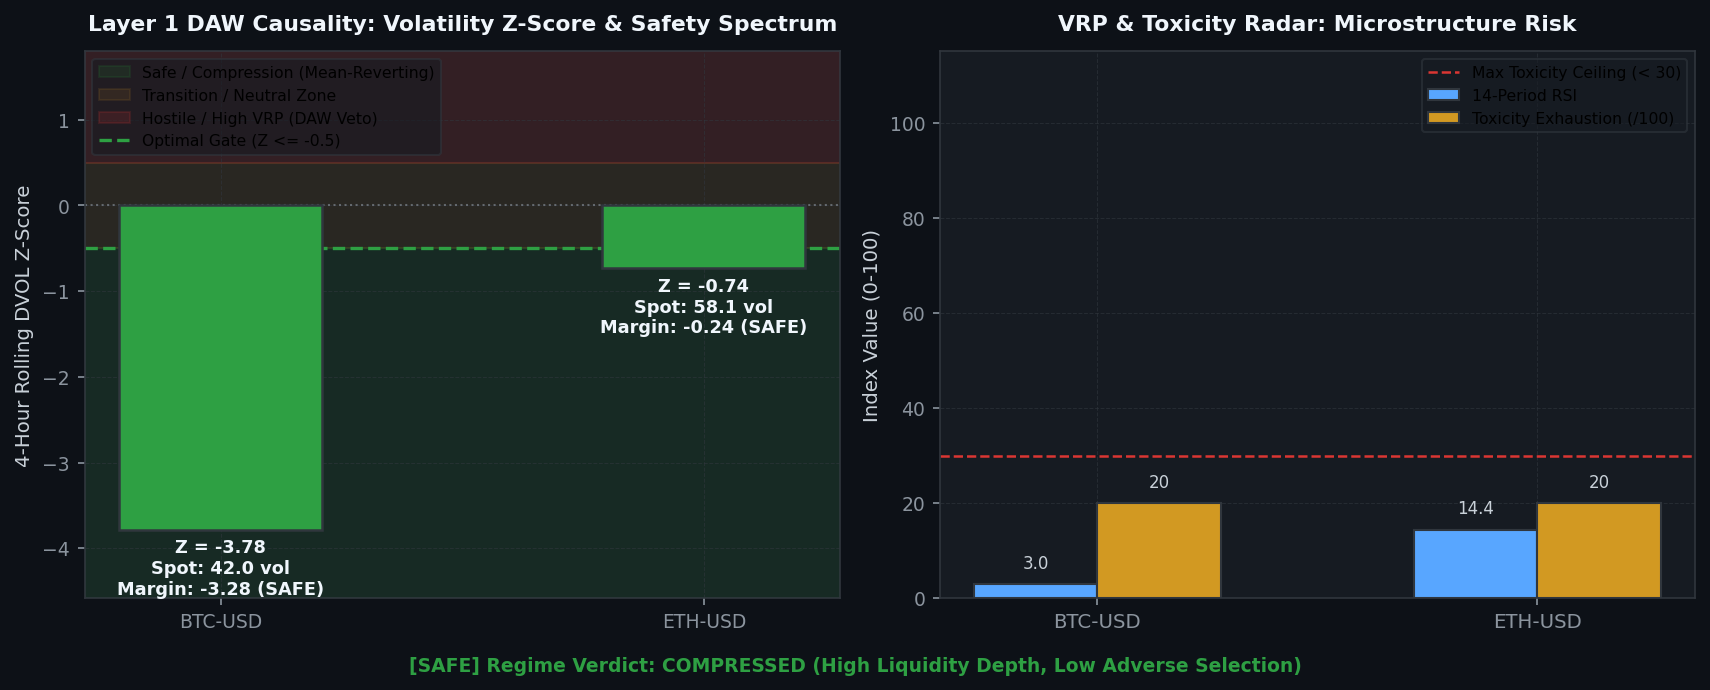
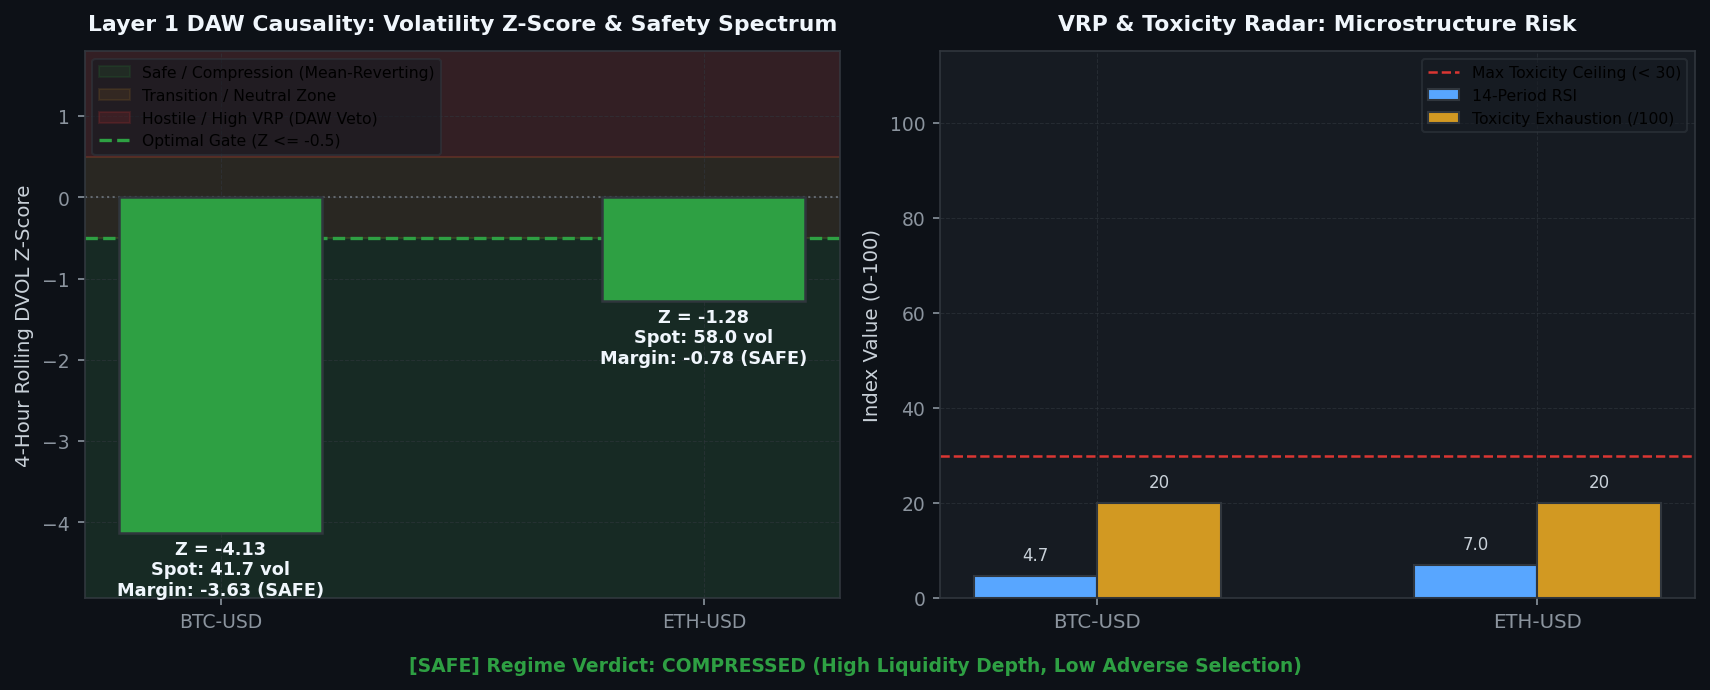
[coinbase] Hourly Status & Visual Intelligence Update: 2026-08-26 00:00:27

diff --git a/coinbase/data/hourly_status_report.md b/coinbase/data/hourly_status_report.md
@@ -3,7 +3,7 @@ layout: default
 ---
 
 # 🛡 Unified Trading System Hourly Status & Visual Intelligence
-> **Report Generated**: `2026-08-25 11:42:24 PM PDT (2026-08-26 06:42:24 UTC)`  
+> **Report Generated**: `2026-08-26 12:00:10 AM PDT (2026-08-26 07:00:10 UTC)`  
 > **System Health**: **🟡 DEGRADED / RESTRICTED** | **Win Rate**: `0.0%` | **Completed Trades**: `0`
 
 
@@ -15,13 +15,13 @@ Real-time Deribit implied volatility (DVOL) proxy tracking against mathematicall
 
 | Symbol | Proxy Oracle | Live Z-Score | Optimal Limit (YSP) | Safety Margin | Live VRP | Optimal VRP (YSP) | DAW Safety Verdict |
 | :--- | :--- | :--- | :--- | :--- | :--- | :--- | :--- |
-| `AVAX-USD` | DVOL_BTC | **-3.78** | **-0.50** | **-3.28** | **-4.79** | 5.0 | 🟢 SAFE |
-| `ETH-USD` | DVOL_ETH | **-0.74** | **-0.50** | **-0.24** | **+12.65** | 5.0 | 🔴 DAW VETOED |
-| `ADA-USD` | DVOL_BTC | **-3.78** | **-0.50** | **-3.28** | **-4.80** | 5.0 | 🟢 SAFE |
-| `DOGE-USD` | DVOL_BTC | **-3.78** | **-0.50** | **-3.28** | **-4.80** | 5.0 | 🟢 SAFE |
-| `BTC-USD` | DVOL_BTC | **-3.78** | **-0.50** | **-3.28** | **-4.80** | 5.0 | 🟢 SAFE |
-| `LINK-USD` | DVOL_BTC | **-3.78** | **-0.50** | **-3.28** | **-4.80** | 5.0 | 🟢 SAFE |
-| `SOL-USD` | DVOL_BTC | **-3.78** | **-0.50** | **-3.28** | **-4.80** | 5.0 | 🟢 SAFE |
+| `AVAX-USD` | DVOL_BTC | **-4.17** | **-0.50** | **-3.67** | **-4.79** | 5.0 | 🟢 SAFE |
+| `ETH-USD` | DVOL_ETH | **-1.18** | **-0.50** | **-0.68** | **+12.55** | 5.0 | 🔴 DAW VETOED |
+| `ADA-USD` | DVOL_BTC | **-4.17** | **-0.50** | **-3.67** | **-4.80** | 5.0 | 🟢 SAFE |
+| `DOGE-USD` | DVOL_BTC | **-4.17** | **-0.50** | **-3.67** | **-4.80** | 5.0 | 🟢 SAFE |
+| `BTC-USD` | DVOL_BTC | **-4.17** | **-0.50** | **-3.67** | **-4.80** | 5.0 | 🟢 SAFE |
+| `LINK-USD` | DVOL_BTC | **-4.17** | **-0.50** | **-3.67** | **-4.80** | 5.0 | 🟢 SAFE |
+| `SOL-USD` | DVOL_BTC | **-4.17** | **-0.50** | **-3.67** | **-4.80** | 5.0 | 🟢 SAFE |
 
 
 
@@ -37,12 +37,12 @@ We hereby certify that the mission-critical algorithmic data assets uploaded by 
 
 | Status | Data Asset | Freshness / State | Details / Timestamp |
 | :---: | :--- | :--- | :--- |
-| ✅ | **Go-List JSON** | Fresh (14.67h old) | 08-25 09:02 |
-| ✅ | **TimesFM Forecasts** | Fresh (2.86h old) | 08-25 20:51 |
-| ❌ | **Holding Times config** | STALE! (110.7h old) | Limit 52.7h |
-| ✅ | **BTC DVOL Cache** | Fresh (0.00h old) | 08-25 23:42 |
-| ✅ | **ETH DVOL Cache** | Fresh (0.00h old) | 08-25 23:42 |
-| ❌ | **Live Trading Telemetry** | STALE! (2.2h old) | Limit 0.1h |
+| ✅ | **Go-List JSON** | Fresh (14.97h old) | 08-25 09:02 |
+| ✅ | **TimesFM Forecasts** | Fresh (3.15h old) | 08-25 20:51 |
+| ❌ | **Holding Times config** | STALE! (111.0h old) | Limit 53.0h |
+| ✅ | **BTC DVOL Cache** | Fresh (0.00h old) | 08-26 00:00 |
+| ✅ | **ETH DVOL Cache** | Fresh (0.01h old) | 08-25 23:59 |
+| ❌ | **Live Trading Telemetry** | STALE! (2.5h old) | Limit 0.1h |
 
 <br>
 
@@ -55,7 +55,7 @@ Layer-by-layer tick evaluation waterfall and asset-specific performance tracking
 
 | Funnel Filter Layer | Total Rejections | % of Rejections |
 | :--- | :--- | :--- |
-| Tier 1: Macro Volatility Tensor Gate (Omega_macro) | `7,014` | **100.0%** |
+| Tier 1: Macro Volatility Tensor Gate (Omega_macro) | `7,066` | **100.0%** |
 | Tier 2: Unified Transport & Directional Engine | `0` | **0.0%** |
 | Tier 3: Continuous Hawkes-SFGK Pricer (HAS-Pricer) | `0` | **0.0%** |
 | System: Asset Cooldown Active | `0` | **0.0%** |
@@ -80,18 +80,18 @@ Live balance sheet and open maker liquidity positions from Coinbase CDP.
 | Product | Side | Limit Price | Order ID |
 | :--- | :--- | :--- | :--- |
 | `ACH-USD` | SELL | 0.005507 | `a0d2e243-42b4-4df5-bd23-118f45998df8` |
-| `ADA-USD` | SELL | 0.22853 | `2beee26b-f88c-4929-8625-ec618ae9e32d` |
+| `ETH-USD` | SELL | 2503.11 | `b8603d38-2b4a-481a-803a-19ecf1beb593` |
+| `SOL-USD` | SELL | 100.69 | `8dcd9986-8156-403f-81ee-b1dc96d2b3c7` |
 | `LINK-USD` | SELL | 11.886 | `e550166a-4422-4a46-9c78-7db264061242` |
+| `ADA-USD` | SELL | 0.22031 | `d968b8ef-1180-4f05-bc11-01087aa5d99a` |
+| `ADA-USD` | SELL | 0.22853 | `2beee26b-f88c-4929-8625-ec618ae9e32d` |
 | `AVAX-USD` | SELL | 7.708 | `7c4cd0f2-8347-4458-a3a5-8619324273a2` |
 | `ADA-USD` | SELL | 0.22818 | `7af97780-5e33-47e5-9caf-12bec2c8a7d5` |
 | `ADA-USD` | SELL | 0.22503 | `eb72afdd-a3d7-40b8-9598-30b5ca2b74ef` |
 | `DOGE-USD` | SELL | 0.09237 | `3160f212-8ff6-4b19-a291-73c17cdf2a97` |
 | `AVAX-USD` | SELL | 7.625 | `c14c3c5a-f35f-4043-a616-ea4c20cfa9f2` |
-| `ETH-USD` | SELL | 2503.11 | `b8603d38-2b4a-481a-803a-19ecf1beb593` |
-| `SOL-USD` | SELL | 100.69 | `8dcd9986-8156-403f-81ee-b1dc96d2b3c7` |
 | `BTC-USD` | SELL | 79882.66 | `560ee9a9-d0c6-4242-b2d2-c0d7ddc7393f` |
 | `DOGE-USD` | SELL | 0.09132 | `2f2ed9b7-454b-4377-9672-5f4c78c84b1e` |
-| `ADA-USD` | SELL | 0.22031 | `d968b8ef-1180-4f05-bc11-01087aa5d99a` |
 | `AVAX-USD` | SELL | 7.558 | `fc9234ee-6ef0-4ba3-a44b-d86922f91144` |
 
 
@@ -100,14 +100,14 @@ Live balance sheet and open maker liquidity positions from Coinbase CDP.
 ## 4. 🤖 Foundation Model MLOps & Pipeline Orchestration
 Weekly Algorithmic Mega Cap selection, Zero-shot multi-step forward return forecasts, and VSTEF parameter grid search status.
 
-- **TimesFM Forecast DB**: 🟢 Updated 2.9h ago (2026-08-25 08:51 PM PDT)
+- **TimesFM Forecast DB**: 🟢 Updated 3.2h ago (2026-08-25 08:51 PM PDT)
 - **Last Weekly VSTEF Optimization**: `2026-08-05 09:22:38 AM PDT`
-- **Next Scheduled VSTEF Run**: `2026-08-30 07:00:00 PM PDT (Monday 02:00 UTC)` (Countdown: **115.3h (4d 19h 17m)**)
+- **Next Scheduled VSTEF Run**: `2026-08-30 07:00:00 PM PDT (Monday 02:00 UTC)` (Countdown: **115.0h (4d 18h 59m)**)
 - **Promoted Parameter Gates**: $Z_{DVOL} \le -0.5$ | Holding Horizon $= 12\text{h}$
 
 ### Algorithmic Mega Cap Selection
 - **Last Run (Confirmation)**: `2026-08-25 09:02:14 AM PDT`
-- **Next Scheduled Run**: `2026-08-30 06:00:00 PM PDT (Monday 01:00 UTC)` (Countdown: **114.3h (4d 18h 17m)**)
+- **Next Scheduled Run**: `2026-08-30 06:00:00 PM PDT (Monday 01:00 UTC)` (Countdown: **114.0h (4d 17h 59m)**)
 - **Selected Mega Cap Universe**: `BTC, BCH, AVAX, ETH, ALGO, ADA, LTC, DOGE, AAVE, LINK, DOT, HBAR`
 
 
@@ -121,8 +121,8 @@ Visualizing the impact of the VSTEF (Volatility-Synchronized Stop-Tightening Exe
 ## 5. 🖥 Multi-Node Infrastructure & Watchdog Matrix
 ```text
 ================================================================================
-   🛡  SFGK FUNNEL GUARDIAN WATCHDOG (HFT ONLY) |  06:42:25 AM
-   CPU:   2.9%  |  MEM:   8.3% (14.1GB / 15.4GB Free)
+   🛡  SFGK FUNNEL GUARDIAN WATCHDOG (HFT ONLY) |  07:00:08 AM
+   CPU:   2.8%  |  MEM:   8.3% (14.1GB / 15.4GB Free)
 ================================================================================
 SERVICE              | PID      | STATUS          | RESTARTS | INFO
 --------------------------------------------------------------------------------
@@ -130,7 +130,7 @@ L3 Consumer          | 39783    | RUNNING         | -        | Continuous Websoc
 MAO Daemon           | 39967    | RUNNING         | -        | Oracle Yield Analysis
 Stable Farmer        | 39969    | RUNNING         | -        | Volume Farmer
 Trader AVAX-USD      | 39970    | RUNNING         | 0        | Evaluating Funnel/Polling Order
-Trader ETH-USD       | 79924    | RUNNING         | 154      | Evaluating Funnel/Polling Order
+Trader ETH-USD       | 93601    | COOL-DOWN       | 206      | Next run in 9.9s
 Trader ADA-USD       | 39972    | RUNNING         | 0        | Evaluating Funnel/Polling Order
 Trader DOGE-USD      | 39973    | RUNNING         | 0        | Evaluating Funnel/Polling Order
 Trader BTC-USD       | 78710    | RUNNING         | 1        | Evaluating Funnel/Polling Order

diff --git a/coinbase/data/visual_intelligence.md b/coinbase/data/visual_intelligence.md
@@ -4,7 +4,7 @@ title: Visual Intelligence Gallery
 ---
 
 # 📈 Visual Intelligence Gallery
-> **Generated:** `2026-08-25 23:42:42`
+> **Generated:** `2026-08-26 00:00:26`
 > **[Return to Main Status Report](./hourly_status_report.md)**
 
 This page visualizes the internal states, market profiles, and decision criteria of the active **3-Tier Fused Decision Engine** across all layers.
